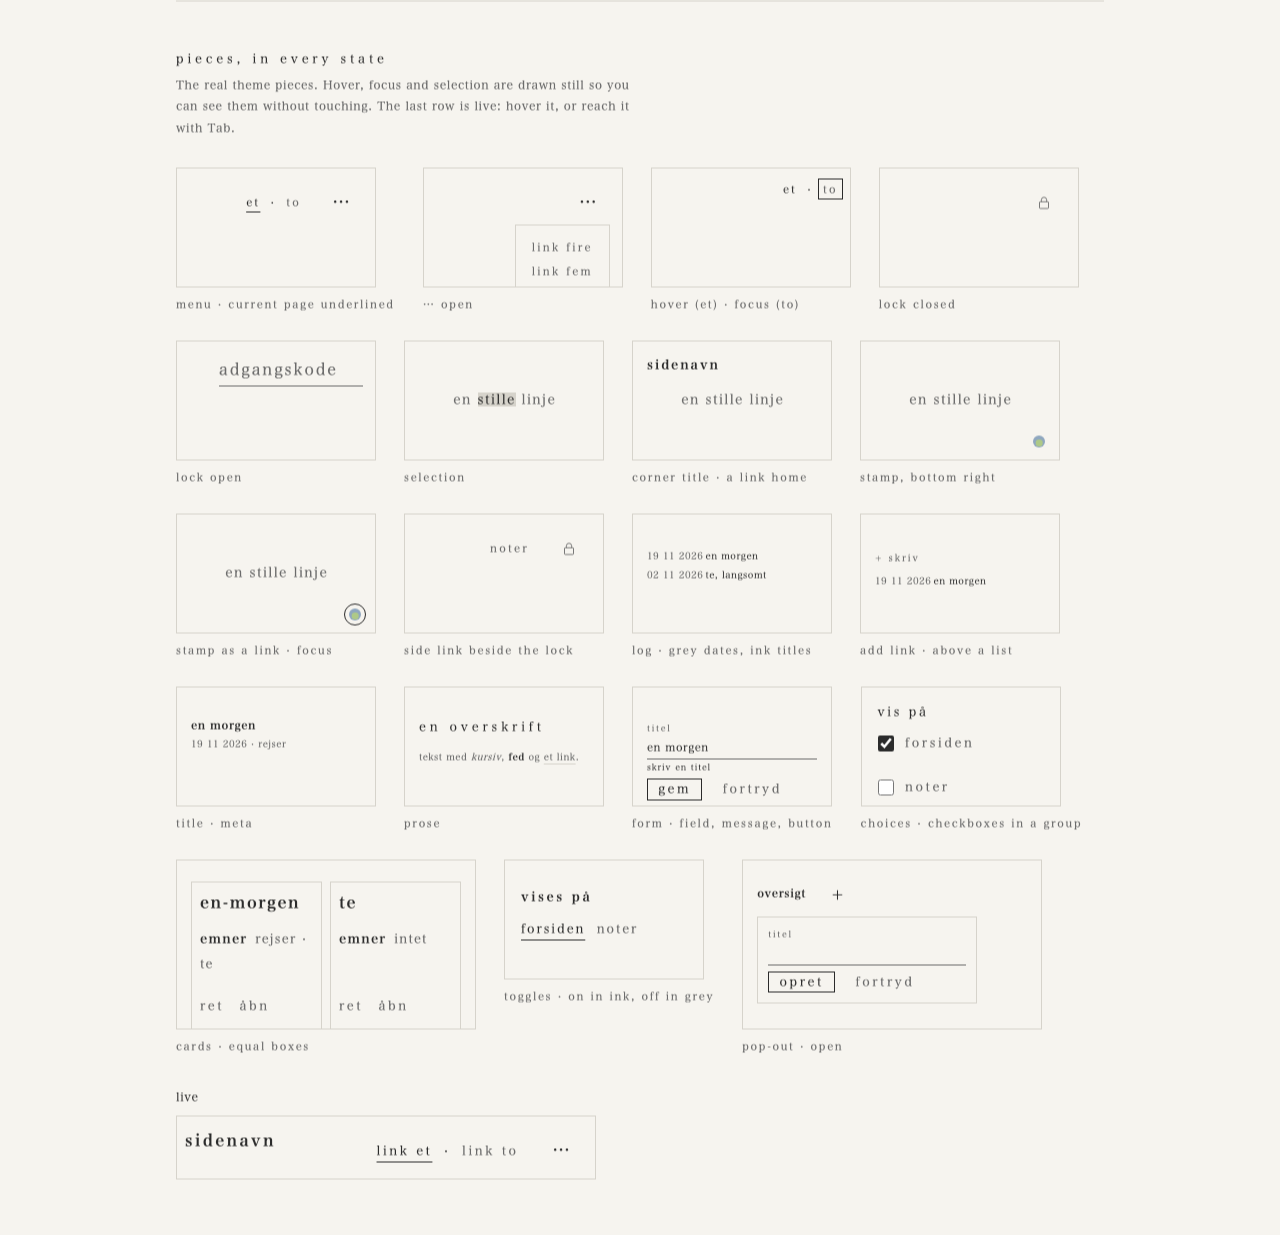
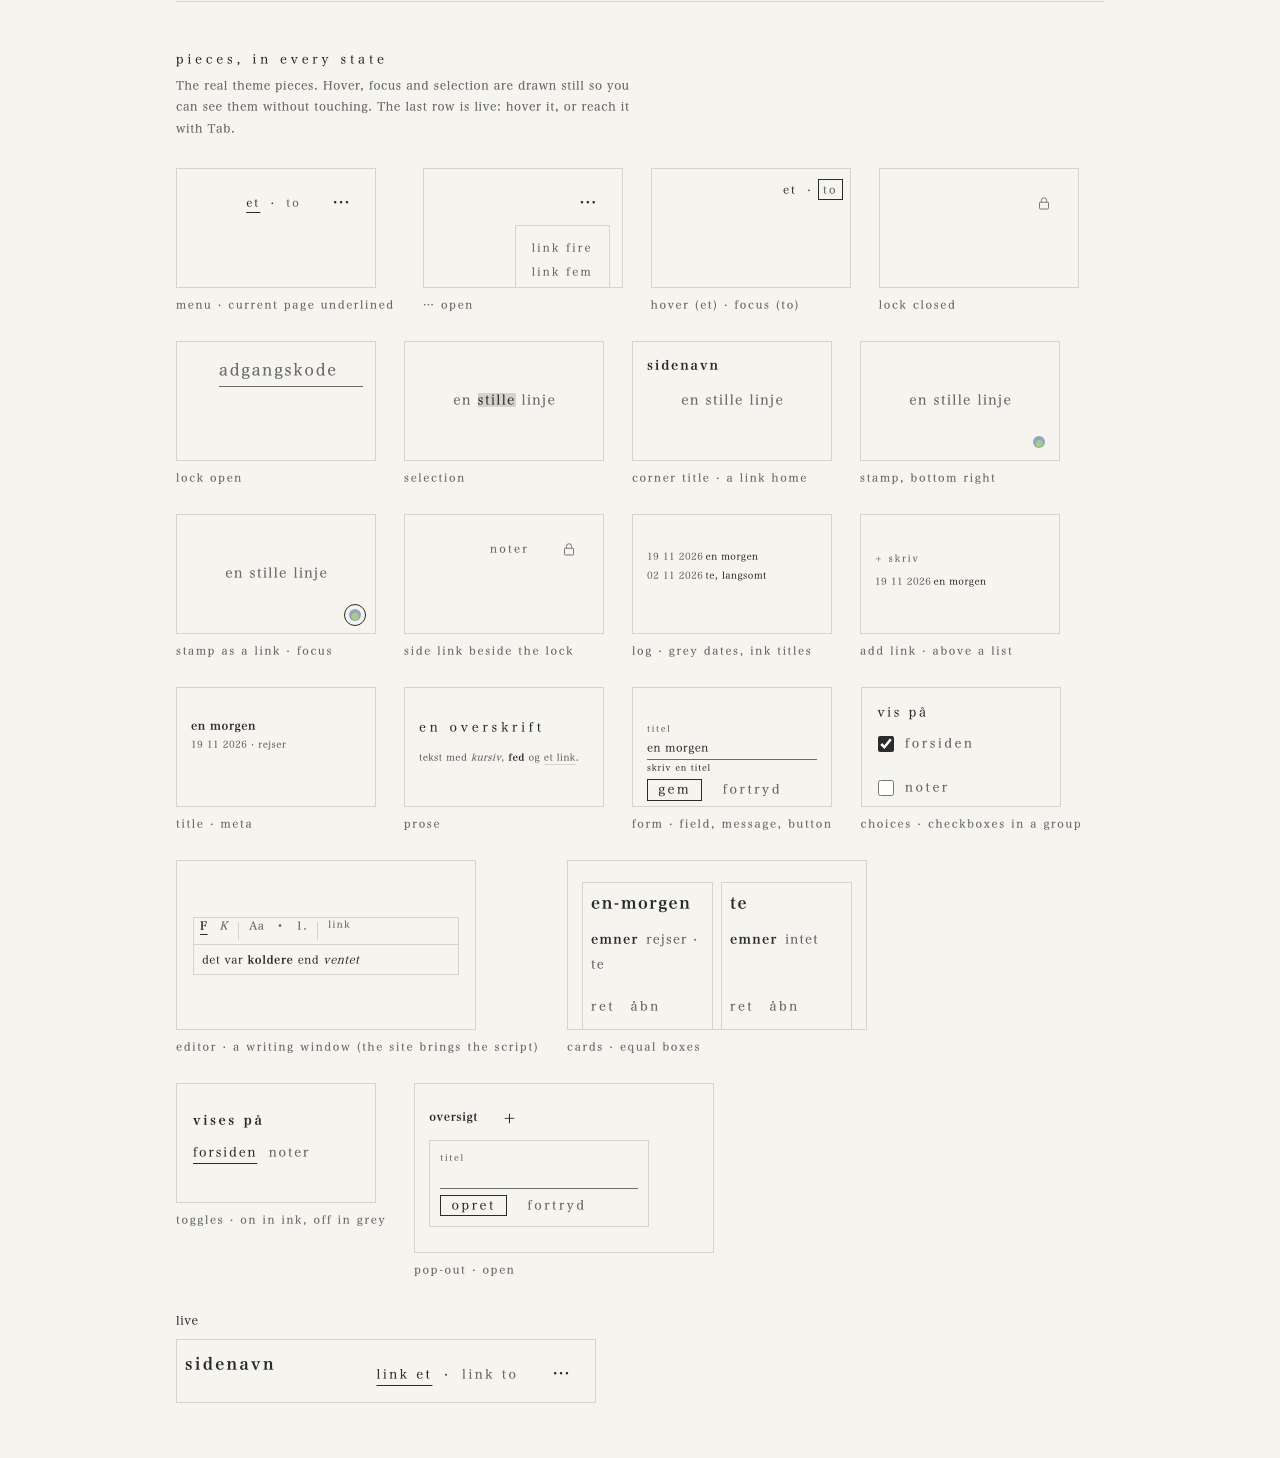
feat: the editor piece, script-src 'none' in the baseline (1.7.0)

diff --git a/site/theme.css b/site/theme.css
@@ -1,4 +1,4 @@
-/* hyvnl-theme 1.6.0
+/* hyvnl-theme 1.7.0
    The shared look for my sites: ink on paper, lots of empty space.
    Don't edit this copy. Change it in the hyvnl-theme repo, then copy it in again.
    Guide: GUIDE.md in the hyvnl-theme repo. */
@@ -65,6 +65,8 @@ a[aria-current="page"] { color: var(--ink); }
 a:focus-visible, summary:focus-visible { outline: 1px solid var(--ink); outline-offset: 4px; }
 ::selection { background: var(--hairline); color: var(--ink); }
 a, .lock-icon { transition: color var(--ink-fade) ease; }
+/* hidden means hidden, even for pieces that set their own display (1.7.0) */
+[hidden] { display: none !important; }
 
 /* ---------- menu: top right, links with a dot between, "…" folds out more ----------
    z-index keeps the menu above main.center (full height, positioned, and later in the page),
@@ -352,6 +354,88 @@ a.name { color: var(--ink); }
 .choice input:focus-visible { outline: 1px solid var(--ink); outline-offset: 4px; }
 .choices + .actions { margin-top: 1.2em; }
 .form + .form { margin-top: 3.6em; }
+
+/* ---------- editor: a writing window with a quiet row of tools (1.7.0) ----------
+   Look only: the site's own script builds it in place of a .area (and keeps the .area for when scripts are
+   off). A .editor holds a .editor-bar (role="toolbar") of .editor-tool buttons, with .editor-gap between
+   groups, an optional .editor-link row (an address field and its buttons), and the .editor-area itself
+   (contenteditable). A tool that is on has aria-pressed="true": ink, underlined. */
+.editor { margin: 0.3em 0 0; border: 1px solid var(--hairline); }
+.editor:focus-within { border-color: var(--ink); }
+.editor-bar {
+  position: sticky;
+  top: 0;
+  z-index: 1;
+  display: flex;
+  flex-wrap: wrap;
+  align-items: center;
+  border-bottom: 1px solid var(--hairline);
+  background: var(--paper);
+}
+.editor-tool {
+  min-width: var(--tap);
+  height: var(--tap);
+  padding: 0 0.5em;
+  border: 0;
+  border-radius: 0;
+  background: transparent;
+  color: var(--grey);
+  font: inherit;
+  font-size: var(--size-input);
+  letter-spacing: 0.05em;
+  cursor: pointer;
+  transition: color var(--ink-fade) ease;
+}
+.editor-tool:hover { color: var(--ink); }
+.editor-tool[aria-pressed="true"] { color: var(--ink); text-decoration: underline; text-underline-offset: 0.35em; }
+.editor-tool:focus-visible { outline: 1px solid var(--ink); outline-offset: -8px; }
+.editor-tool.tool-b { font-weight: 600; }
+.editor-tool.tool-i { font-style: italic; }
+.editor-tool.is-word { padding: 0 0.6em; font-size: var(--size-menu); letter-spacing: 0.15em; }
+.editor-gap { width: 1px; height: 18px; margin: 0 4px; background: var(--hairline); }
+.editor-link {
+  display: flex;
+  align-items: center;
+  gap: 0.8em;
+  padding: 0 10px;
+  border-bottom: 1px solid var(--hairline);
+  font-size: var(--size-menu);
+  letter-spacing: 0.15em;
+  color: var(--grey);
+}
+.editor-link .field { flex: 1; min-width: 0; margin: 0; }
+.editor-link button {
+  min-width: var(--tap);
+  min-height: var(--tap);
+  padding: 0 0.4em;
+  border: 0;
+  background: transparent;
+  color: var(--grey);
+  font: inherit;
+  cursor: pointer;
+}
+.editor-link button:hover { color: var(--ink); }
+.editor-link button:focus-visible { outline: 1px solid var(--ink); outline-offset: -8px; }
+.editor-area {
+  min-height: 18em;
+  padding: 10px;
+  color: var(--ink);
+  font-size: var(--size-input);
+  letter-spacing: 0.05em;
+  line-height: 1.8;
+  outline: none;
+  overflow-wrap: anywhere;
+}
+.editor-area > * { margin: 0; }
+.editor-area > * + * { margin-top: 1em; }
+.editor-area > * + h2, .editor-area > * + h3 { margin-top: 1.6em; }
+.editor-area h2, .editor-area h3 { font-size: var(--size-input); line-height: 1.8; letter-spacing: 0.1em; }
+.editor-area h2 { font-weight: 600; }
+.editor-area h3 { font-weight: normal; }
+.editor-area ul, .editor-area ol { padding-left: 1.4em; }
+.editor-area strong, .editor-area b { font-weight: 600; }
+.editor-area a { color: var(--ink); text-decoration: underline; text-decoration-color: var(--grey); text-underline-offset: 0.3em; }
+.editor + .notice { margin-top: 0.5em; }
 
 /* ---------- wide: a full-width page that starts top left (an overview, a dashboard) ----------
    <main class="wide"> instead of <main class="center">. The corner title, menu and stamp work the same. */

diff --git a/specimen/index.html b/specimen/index.html
@@ -92,6 +92,7 @@
       <div><div class="frame"><main class="center reading"><div class="prose"><h2>en overskrift</h2><p>tekst med <em>kursiv</em>, <strong>fed</strong> og <a href="#">et link</a>.</p></div></main></div><p class="cap" lang="en">prose</p></div>
       <div><div class="frame"><main class="center reading"><div class="form"><label class="field-label">titel</label><input class="field" type="text" value="en morgen"><p class="notice">skriv en titel</p><div class="actions"><button class="button" type="button">gem</button><a href="#">fortryd</a></div></div></main></div><p class="cap" lang="en">form · field, message, button</p></div>
       <div><div class="frame"><main class="center"><div class="form"><fieldset class="choices"><legend>vis på</legend><label class="choice"><input type="checkbox" checked>forsiden</label><label class="choice"><input type="checkbox">noter</label></fieldset></div></main></div><p class="cap" lang="en">choices · checkboxes in a group</p></div>
+      <div><div class="frame frame-wide"><main class="center"><div class="form"><div class="editor"><div class="editor-bar"><span class="editor-tool tool-b" aria-pressed="true">F</span><span class="editor-tool tool-i">K</span><span class="editor-gap"></span><span class="editor-tool">Aa</span><span class="editor-tool">•</span><span class="editor-tool">1.</span><span class="editor-gap"></span><span class="editor-tool is-word">link</span></div><div class="editor-area"><p>det var <strong>koldere</strong> end <em>ventet</em></p></div></div></div></main></div><p class="cap" lang="en">editor · a writing window (the site brings the script)</p></div>
       <div><div class="frame frame-wide"><main class="wide spec-cards"><ul class="cards"><li class="card"><p class="card-name">en-morgen</p><p class="card-line"><span class="card-label">emner</span>rejser · te</p><div class="card-actions"><a href="#">ret</a><a href="#">åbn</a></div></li><li class="card"><p class="card-name">te</p><p class="card-line"><span class="card-label">emner</span>intet</p><div class="card-actions"><a href="#">ret</a><a href="#">åbn</a></div></li></ul></main></div><p class="cap" lang="en">cards · equal boxes</p></div>
       <div><div class="frame"><main class="center"><div class="form"><fieldset class="toggles"><legend>vises på</legend><label class="toggle"><input type="checkbox" checked>forsiden</label><label class="toggle"><input type="checkbox">noter</label></fieldset></div></main></div><p class="cap" lang="en">toggles · on in ink, off in grey</p></div>
       <div><div class="frame frame-wide"><main class="wide spec-cards"><div class="head"><p class="title">oversigt</p><details class="pop pop-add" open><summary>+</summary><div class="pop-panel"><div class="form"><label class="field-label">titel</label><input class="field" type="text"><div class="actions"><button class="button" type="button">opret</button><a href="#">fortryd</a></div></div></div></details></div></main></div><p class="cap" lang="en">pop-out · open</p></div>

diff --git a/specimen/specimen.css b/specimen/specimen.css
@@ -36,6 +36,10 @@ body { height: auto; }
 .frame-desk { width: 560px; height: 330px; }
 .frame-phone { width: 180px; height: 360px; border-radius: 14px; }
 .frame-thumb { width: 168px; height: 124px; }
+/* the editor, small enough for its frame */
+.frame .editor-tool { min-width: 0; height: 26px; padding: 0 6px; font-size: 0.7rem; }
+.frame .editor-tool.is-word { font-size: 0.6rem; }
+.frame .editor-area { min-height: 0; padding: 6px 8px; font-size: 0.7rem; line-height: 1.6; }
 /* the wide page inside a small frame: less room around it, smaller cards */
 .frame .wide { min-height: 0; height: 100%; padding: 30px 14px 0; }
 .frame .spec-cards { padding-top: 12px; }

diff --git a/GUIDE.md b/GUIDE.md
@@ -21,7 +21,7 @@ Version: see the first line of `site/theme.css`. Changes are listed at the end. 
 2. **Ink on paper.** Paper, ink, grey and one hairline. One accent, the stamp, never used for text. No dark mode.
 3. **Nothing moves until you touch it.** No animation at rest. Movement stops when the device asks for less.
 4. **Fonts already on the device.** Japanese-style serifs, nothing downloaded.
-5. **Nothing needs a script.** Menus and the lock use what browsers already do.
+5. **Nothing needs a script.** Menus and the lock use what browsers already do. The one exception a site may make is its own small script for the editor (section 4), on the pages that hold one.
 6. **Danish, lowercase, short.** On the pages, words are few and quiet.
 7. **Every site keeps the security baseline** (section 8).
 
@@ -264,6 +264,39 @@ Checkboxes in a group, with a small ink heading (`.choices`, `.choice`). Each bo
 - Do: short labels, lowercase; the legend says what the boxes are about.
 - Don't: use it for one single yes/no (write one choice without a fieldset instead).
 
+### Editor (look only)
+
+A writing window for longer text: a quiet row of tools above an area that shows **bold**, *italic*, a heading, lists and links as they will look (`.editor`, `.editor-bar`, `.editor-tool`, `.editor-gap`, `.editor-link`, `.editor-area`). The theme only gives the look. **The site brings its own small script**, which builds the window in place of a `.area` and keeps the `.area` (hidden) for the form to send. With scripts off, the page is the plain `.area`, so a form with an editor always works without one.
+
+The HTML the script builds:
+
+```html
+<div class="editor">
+  <div class="editor-bar" role="toolbar" aria-label="formatering" aria-controls="tekst-vist">
+    <button type="button" class="editor-tool tool-b" aria-label="fed" aria-pressed="false">F</button>
+    <button type="button" class="editor-tool tool-i" aria-label="kursiv" aria-pressed="false">K</button>
+    <span class="editor-gap" aria-hidden="true"></span>
+    <button type="button" class="editor-tool" aria-label="overskrift" aria-pressed="false">Aa</button>
+    <button type="button" class="editor-tool" aria-label="punktliste" aria-pressed="false">•</button>
+    <button type="button" class="editor-tool" aria-label="nummereret liste" aria-pressed="false">1.</button>
+    <span class="editor-gap" aria-hidden="true"></span>
+    <button type="button" class="editor-tool is-word" aria-label="link" aria-pressed="false">link</button>
+  </div>
+  <div class="editor-link" hidden>
+    <label for="adresse">adresse</label><input class="field" id="adresse" type="text" inputmode="url">
+    <button type="button">ok</button><button type="button">fjern</button><button type="button" aria-label="luk">×</button>
+  </div>
+  <div class="editor-area" id="tekst-vist" contenteditable="true" role="textbox" aria-multiline="true" aria-labelledby="tekst-label"></div>
+</div>
+```
+
+- A tool that is on gets `aria-pressed="true"`: ink, underlined.
+- The tools are letters, like a Danish word processor (**F** fed, *K* kursiv), so the row fits one line even 320px wide. Every tool has a Danish `aria-label` and is at least 44×44px.
+- The row stays at the top of the window while you scroll a long text (`position: sticky`).
+- `[hidden]` now always hides, even on pieces that set their own `display` (for example the `.area` the script hides).
+- Do: keep the tools to what the site can really store, and paste as plain text.
+- Don't: add colours, fonts or sizes. Ink on paper.
+
 ### Wide page and head
 
 A full-width page that starts top left, for an overview or a dashboard (`.wide` on `<main>` instead of `.center`). The corner title, menu and stamp work as on every page. `.head` puts something small beside the title, for example a pop-out `+`. Copy the HTML from `site/cards.html`.
@@ -440,7 +473,7 @@ Check before publishing:
 **Click check.** Something invisible drawn on top of the menu can swallow its clicks while the page still looks right (that was the 1.1.0 bug). In the browser, set the width (developer tools → device toolbar), open the console and paste:
 
 ```js
-[...document.querySelectorAll('a.name, .menu a, .menu summary, .lock-icon, .add, a.stamp, .button, .pop > summary')]
+[...document.querySelectorAll('a.name, .menu a, .menu summary, .lock-icon, .add, a.stamp, .button, .pop > summary, .editor-tool')]
   .filter(e => e.getClientRects().length)
   .map(e => { const r = e.getBoundingClientRect();
     const hit = document.elementFromPoint(r.x + r.width / 2, r.y + r.height / 2);
@@ -469,7 +502,7 @@ Every line must end in `ok`. Open `…` and paste it again for the fold-out's li
 
 Every site keeps all of this.
 
-- No scripts. No files from other websites (fonts, styles, images, scripts). No `style="…"` or `on…=` attributes. No `<style>` blocks: all styling is in `theme.css` and `site.css`.
+- No scripts. No files from other websites (fonts, styles, images, scripts). No `style="…"` or `on…=` attributes. No `<style>` blocks: all styling is in `theme.css` and `site.css`. (The one exception: a site's own script file for the editor, below.)
 - Every response carries these headers:
 
 ```
@@ -478,12 +511,16 @@ X-Content-Type-Options: nosniff
 X-Frame-Options: DENY
 Referrer-Policy: strict-origin-when-cross-origin
 Permissions-Policy: camera=(), microphone=(), geolocation=()
-Content-Security-Policy: default-src 'self'; style-src 'self'; img-src 'self' data:; base-uri 'self'; form-action 'self'; frame-ancestors 'none'; object-src 'none'
+Content-Security-Policy: default-src 'self'; style-src 'self'; img-src 'self' data:; base-uri 'self'; form-action 'self'; frame-ancestors 'none'; object-src 'none'; script-src 'none'
 ```
+
+`script-src 'none'` (new in 1.7.0) says it out loud: `default-src 'self'` alone would let the site's own scripts run. Add it to an older site's headers when you update it.
 
 Pages behind a password also get `Cache-Control: no-store`.
 
-In plain words: browsers only use https, don't guess file types, don't let other sites frame the page, send less to other sites, don't offer camera, microphone or location, and only load anything from the site's own address. The styles come from its own `/theme.css`, so `style-src 'self'` is enough.
+In plain words: browsers only use https, don't guess file types, don't let other sites frame the page, send less to other sites, don't offer camera, microphone or location, only load anything from the site's own address, and run no scripts at all. The styles come from its own `/theme.css`, so `style-src 'self'` is enough.
+
+**A page with an editor** (and only such a page) may run the site's own script file. Its CSP ends in `script-src 'self'; require-trusted-types-for 'script'; trusted-types 'none'` instead of `script-src 'none'`: only script files from the site's own address, nothing written inside the page, and no script may turn text into HTML. Every other page keeps `script-src 'none'`. Never add `'unsafe-inline'`, and never a script from another address.
 
 - **If the site's server code builds its responses itself**, it must add the headers in that code; a host's headers file may not apply to them.
 - If a site ever truly needs something from another address, change its CSP on purpose, and write down why in that site's docs.
@@ -603,6 +640,7 @@ Considered and left out: text set top-to-bottom as a margin accent, and a name s
 
 ## 12. Changes
 
+- **1.7.0** (2026-11-22): new: the editor (`.editor`, `.editor-bar`, `.editor-tool`, `.editor-gap`, `.editor-link`, `.editor-area`), the look of a writing window whose script the site brings itself; `[hidden]` now always hides. The security baseline now ends the CSP in `script-src 'none'`, and says what a page with an editor sends instead. Pages made for 1.6 look the same.
 - **1.6.0** (2026-11-22): new: the corner title as a link home on every page (`a.name`, in ink like the plain title), with the page's own `h1` visible or visually hidden; the current page underlined in the menu (`aria-current="page"`); the add link (`.add`, a quiet `+ word` above a list); the stamp as a link (`a.stamp`: same look, an invisible 44px tap area, a focus outline). Deprecated: the back arrow (`.back`); the starter pages and the specimen no longer use it, and its style stays until 2.0.0. Two small look changes on existing pages: a current menu link is now underlined, and a corner title that is a link is now ink instead of grey. Nothing has to change in old pages.
 - **1.5.0** (2026-11-21): new: the wide page and head (`.wide`, `.head`), cards (`.cards`, `.card` and its parts; equal heights), toggles (`.toggles`, `.toggle`: words that switch on and off) and the pop-out (`.pop`, `.pop-add`, `.pop-panel`), shown in a ninth starter page, `site/cards.html`, and the specimen. Pages made for 1.4 look the same.
 - **1.4.0** (2026-11-19): new: the choices piece (checkboxes in a group, `.choices`, `.choice`), shown in `site/form.html` and the specimen, and room between two forms in a row (`.form + .form`). Pages made for 1.3 look the same.

diff --git a/README.md b/README.md
@@ -9,9 +9,9 @@
 
 ![The specimen page's opening screen: the theme name, the four ideas, and the stamp in the corner](specimen/screens/concept.png)
 
-The shared look for my websites: one style file, nine starter pages, no scripts, nothing downloaded.
+The shared look for my websites: one style file, nine starter pages, no scripts, nothing downloaded. (A site may bring its own small script for the editor's writing window; the theme gives only its look.)
 
-![Every piece in each state: menu with the current page underlined, the open fold-out, hover and focus, the lock closed and open, the corner title, the add link, selection and the stamp](specimen/screens/pieces.png)
+![Every piece in each state: menu with the current page underlined, the open fold-out, hover and focus, the lock closed and open, the corner title, the add link, the editor, selection and the stamp](specimen/screens/pieces.png)
 
 ![The nine starter pages: front, short page, list, longer reading, not found, and more](specimen/screens/pages.png)
 
